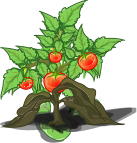
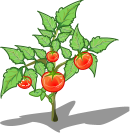
feat(manor): restore early classic crops

diff --git a/packages/manor/src/farm.ts b/packages/manor/src/farm.ts
@@ -24,44 +24,132 @@ export const MANOR_CROPS: readonly ManorCropDefinition[] = [
     name: "白萝卜",
     emoji: "萝",
     levelRequired: 1,
-    seedPrice: 10,
-    salePrice: 6,
-    growthSeconds: 120,
-    baseYield: 4,
-    experience: 4
+    seedPrice: 125,
+    salePrice: 17,
+    growthSeconds: 36_000,
+    baseYield: 16,
+    experience: 15
   },
   {
     id: "carrot",
     name: "胡萝卜",
     emoji: "胡",
+    levelRequired: 1,
+    seedPrice: 163,
+    salePrice: 21,
+    growthSeconds: 46_800,
+    baseYield: 17,
+    experience: 18
+  },
+  {
+    id: "cabbage",
+    name: "大白菜",
+    emoji: "白",
     levelRequired: 2,
-    seedPrice: 20,
-    salePrice: 8,
-    growthSeconds: 300,
-    baseYield: 5,
-    experience: 7
+    seedPrice: 168,
+    salePrice: 22,
+    growthSeconds: 50_400,
+    baseYield: 17,
+    experience: 19
+  },
+  {
+    id: "wheat",
+    name: "小麦",
+    emoji: "麦",
+    levelRequired: 3,
+    seedPrice: 168,
+    salePrice: 21,
+    growthSeconds: 50_400,
+    baseYield: 18,
+    experience: 19
+  },
+  {
+    id: "rice",
+    name: "水稻",
+    emoji: "稻",
+    levelRequired: 3,
+    seedPrice: 168,
+    salePrice: 21,
+    growthSeconds: 50_400,
+    baseYield: 18,
+    experience: 19
   },
   {
     id: "corn",
     name: "玉米",
     emoji: "玉",
-    levelRequired: 3,
-    seedPrice: 35,
-    salePrice: 10,
-    growthSeconds: 600,
-    baseYield: 6,
-    experience: 11
+    levelRequired: 4,
+    seedPrice: 175,
+    salePrice: 23,
+    growthSeconds: 50_400,
+    baseYield: 17,
+    experience: 19
+  },
+  {
+    id: "potato",
+    name: "土豆",
+    emoji: "薯",
+    levelRequired: 5,
+    seedPrice: 188,
+    salePrice: 24,
+    growthSeconds: 54_000,
+    baseYield: 18,
+    experience: 20
+  },
+  {
+    id: "eggplant",
+    name: "茄子",
+    emoji: "茄",
+    levelRequired: 6,
+    seedPrice: 237,
+    salePrice: 25,
+    growthSeconds: 57_600,
+    baseYield: 20,
+    experience: 21
   },
   {
     id: "tomato",
     name: "番茄",
     emoji: "番",
-    levelRequired: 4,
-    seedPrice: 60,
-    salePrice: 12,
-    growthSeconds: 1_200,
-    baseYield: 8,
-    experience: 16
+    levelRequired: 7,
+    seedPrice: 251,
+    salePrice: 26,
+    growthSeconds: 61_200,
+    baseYield: 21,
+    experience: 22
+  },
+  {
+    id: "pea",
+    name: "豌豆",
+    emoji: "豌",
+    levelRequired: 8,
+    seedPrice: 266,
+    salePrice: 27,
+    growthSeconds: 64_800,
+    baseYield: 22,
+    experience: 23
+  },
+  {
+    id: "chili",
+    name: "辣椒",
+    emoji: "辣",
+    levelRequired: 9,
+    seedPrice: 296,
+    salePrice: 28,
+    growthSeconds: 72_000,
+    baseYield: 24,
+    experience: 25
+  },
+  {
+    id: "pumpkin",
+    name: "南瓜",
+    emoji: "南",
+    levelRequired: 10,
+    seedPrice: 325,
+    salePrice: 30,
+    growthSeconds: 79_200,
+    baseYield: 25,
+    experience: 27
   }
 ];
 
@@ -315,7 +403,7 @@ export function levelForExperience(experience: number): number {
 
 export function experienceForLevel(level: number): number {
   if (level <= 1) return 0;
-  return 18 * (level - 1) * level;
+  return 100 * (level - 1) * level;
 }
 
 function toPlotView(plot: ManorPlotState, now: number): ManorPlotView {
@@ -384,12 +472,9 @@ function growthDurationMs(crop: ManorCropDefinition, timeScale = 1): number {
 }
 
 function cropRecord(initial: Partial<Record<ManorCropId, number>> = {}): Record<ManorCropId, number> {
-  return {
-    radish: initial.radish ?? 0,
-    carrot: initial.carrot ?? 0,
-    corn: initial.corn ?? 0,
-    tomato: initial.tomato ?? 0
-  };
+  return Object.fromEntries(
+    MANOR_CROPS.map((crop) => [crop.id, initial[crop.id] ?? 0])
+  ) as Record<ManorCropId, number>;
 }
 
 function createEmptyPlots(startId = 1, count = MANOR_PLOT_COUNT): ManorPlotState[] {

diff --git a/packages/manor/test/farm.test.ts b/packages/manor/test/farm.test.ts
@@ -30,21 +30,21 @@ describe("manor farm", () => {
     const harvested = toManorFarmView(farm, "玩家", readyAt + 1);
     const radish = harvested.catalog.find((crop) => crop.id === "radish");
     expect(harvested.plots[0]?.status).toBe("empty");
-    expect(radish?.produce).toBe(4);
+    expect(radish?.produce).toBe(16);
 
     farm = applyManorAction(
       farm,
-      { type: "sell", cropId: "radish", quantity: 4 },
+      { type: "sell", cropId: "radish", quantity: 16 },
       readyAt + 2
     );
-    expect(farm.coins).toBe(144);
+    expect(farm.coins).toBe(392);
     expect(farm.produce.radish).toBe(0);
   });
 
   it("enforces unlocks, balances and maturity", () => {
     const farm = createManorFarm(1_000, "account-2");
     expect(() =>
-      applyManorAction(farm, { type: "buy-seeds", cropId: "carrot", quantity: 1 }, 2_000)
+      applyManorAction(farm, { type: "buy-seeds", cropId: "cabbage", quantity: 1 }, 2_000)
     ).toThrow("2 级");
     expect(() =>
       applyManorAction(farm, { type: "sell", cropId: "radish", quantity: 1 }, 2_000)
@@ -65,10 +65,10 @@ describe("manor farm", () => {
       createManorFarm(startedAt, "account-3"),
       { type: "plant", plotId: 1, cropId: "radish" },
       startedAt,
-      { timeScale: 120 }
+      { timeScale: 3_600 }
     );
-    const view = toManorFarmView(farm, "玩家", startedAt + 1_000, { timeScale: 120 });
-    expect(view.catalog[0]?.growthSeconds).toBe(1);
+    const view = toManorFarmView(farm, "玩家", startedAt + 10_000, { timeScale: 3_600 });
+    expect(view.catalog[0]?.growthSeconds).toBe(10);
     expect(view.plots[0]?.status).toBe("mature");
     expect(migrateManorFarm(JSON.parse(JSON.stringify(farm)))).toEqual(farm);
   });
@@ -83,6 +83,18 @@ describe("manor farm", () => {
     const legacy = {
       ...current,
       schemaVersion: 1,
+      seeds: {
+        radish: current.seeds.radish,
+        carrot: current.seeds.carrot,
+        corn: current.seeds.corn,
+        tomato: current.seeds.tomato
+      },
+      produce: {
+        radish: current.produce.radish,
+        carrot: current.produce.carrot,
+        corn: current.produce.corn,
+        tomato: current.produce.tomato
+      },
       plots: current.plots.slice(0, 6)
     };
 
@@ -91,6 +103,8 @@ describe("manor farm", () => {
     expect(migrated.schemaVersion).toBe(2);
     expect(migrated.plots).toHaveLength(18);
     expect(migrated.plots[1]).toMatchObject({ id: 2, cropId: "radish" });
+    expect(migrated.seeds.potato).toBe(0);
+    expect(migrated.produce.cabbage).toBe(0);
     expect(migrated.plots.slice(6)).toEqual(
       Array.from({ length: 12 }, (_, index) => ({ id: index + 7, cycle: 0 }))
     );

diff --git a/apps/web/src/games/manor/Page.tsx b/apps/web/src/games/manor/Page.tsx
@@ -28,8 +28,16 @@ const TOOLS: ReadonlyArray<{ id: ManorTool; label: string; shortcut?: string }> 
 const CROP_IMAGES: Record<ManorCropId, readonly [string, string, string, string]> = {
   radish: ["crop-radish-0.png", "crop-radish-1.png", "crop-radish-2.png", "crop-radish-3.png"],
   carrot: ["crop-carrot-0.png", "crop-carrot-1.png", "crop-carrot-2.png", "crop-carrot-3.png"],
+  cabbage: ["crop-cabbage-0.png", "crop-cabbage-1.png", "crop-cabbage-2.png", "crop-cabbage-3.png"],
+  wheat: ["crop-wheat-0.png", "crop-wheat-1.png", "crop-wheat-2.png", "crop-wheat-3.png"],
+  rice: ["crop-rice-0.png", "crop-rice-1.png", "crop-rice-2.png", "crop-rice-3.png"],
   corn: ["crop-corn-0.png", "crop-corn-1.png", "crop-corn-2.png", "crop-corn-3.png"],
-  tomato: ["crop-tomato-0.png", "crop-tomato-1.png", "crop-tomato-2.png", "crop-tomato-3.png"]
+  potato: ["crop-potato-0.png", "crop-potato-1.png", "crop-potato-2.png", "crop-potato-3.png"],
+  eggplant: ["crop-eggplant-0.png", "crop-eggplant-1.png", "crop-eggplant-2.png", "crop-eggplant-3.png"],
+  tomato: ["crop-tomato-0.png", "crop-tomato-1.png", "crop-tomato-2.png", "crop-tomato-3.png"],
+  pea: ["crop-pea-0.png", "crop-pea-1.png", "crop-pea-2.png", "crop-pea-3.png"],
+  chili: ["crop-chili-0.png", "crop-chili-1.png", "crop-chili-2.png", "crop-chili-3.png"],
+  pumpkin: ["crop-pumpkin-0.png", "crop-pumpkin-1.png", "crop-pumpkin-2.png", "crop-pumpkin-3.png"]
 };
 
 export function ManorPage() {

diff --git a/packages/shared/src/index.ts b/packages/shared/src/index.ts
@@ -373,7 +373,20 @@ export const GomokuProgressSyncRequestSchema = z.object({
 });
 export type GomokuProgressSyncRequest = z.infer<typeof GomokuProgressSyncRequestSchema>;
 
-export const ManorCropIdSchema = z.enum(["radish", "carrot", "corn", "tomato"]);
+export const ManorCropIdSchema = z.enum([
+  "radish",
+  "carrot",
+  "cabbage",
+  "wheat",
+  "rice",
+  "corn",
+  "potato",
+  "eggplant",
+  "tomato",
+  "pea",
+  "chili",
+  "pumpkin"
+]);
 export type ManorCropId = z.infer<typeof ManorCropIdSchema>;
 
 const ManorPlotIdSchema = z.number().int().min(1).max(18);
